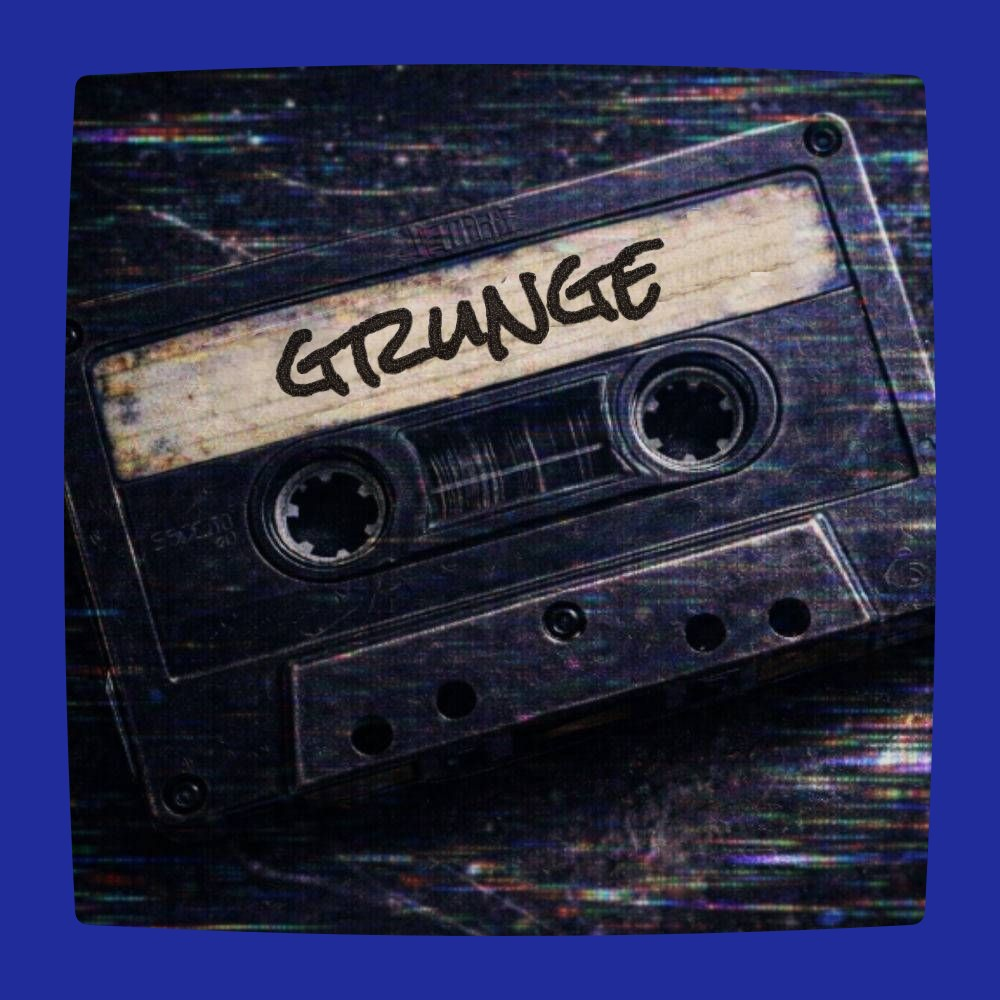
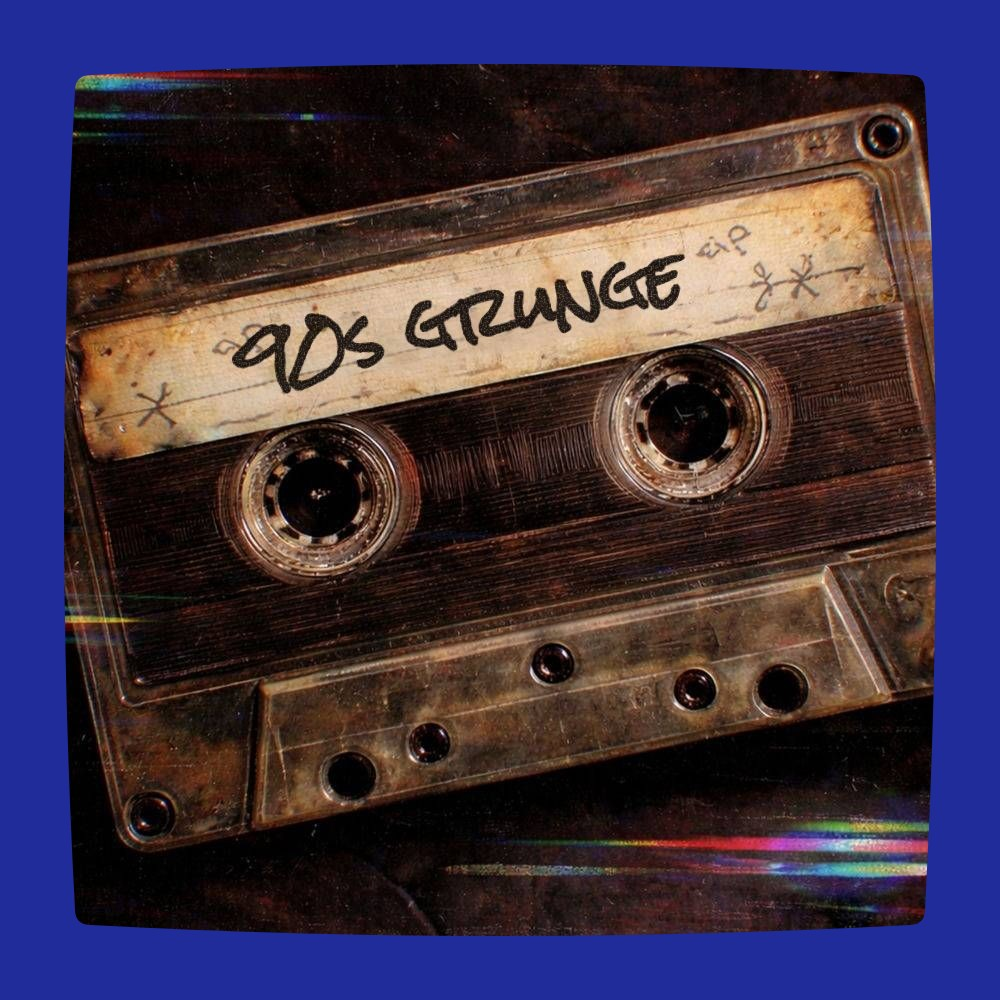
Regenerate Smells Like Grunge cover on the rusty tape

diff --git a/playlists/smells-like-grunge.md b/playlists/smells-like-grunge.md
@@ -13,8 +13,9 @@ artists:
   - "Screaming Trees"
 description: "Grunge before the radio cleaned it up. Seattle and its orbit, mid 80s to spring 94. The big ones up front, then down into the fuzz, sludge and feedback."
 smartlink: https://sdz.sh/XGJctw
-tape: navy-dust
-label: grunge
+tape: rusty-clear
+label: 90s grunge
+font: salt
 ---
 
 ## Rework (Nov 2026)
